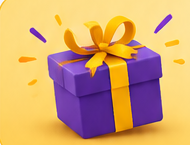
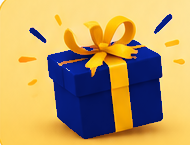
fix: replace purple tones with navy in dashboard images and gradient

diff --git a/src/App.tsx b/src/App.tsx
@@ -28,7 +28,9 @@ import { ClientDashboard } from './pages/ClientDashboard';
 
 export function App() {
   const [currentPage, setCurrentPage] = useState<PageType>(() => {
-    return window.location.hash === '#admin' ? 'admin' : 'home';
+    if (window.location.hash === '#admin') return 'admin';
+    if (window.location.hash === '#dashboard') return 'dashboard';
+    return 'home';
   });
   const [isFareModalOpen, setIsFareModalOpen] = useState(false);
   const [currentBookingData, setCurrentBookingData] = useState<BookingData | null>(null);
@@ -53,11 +55,13 @@ export function App() {
     }, 60);
   };
 
-  // Listen to hash change for #admin route
+  // Listen to hash change for #admin and #dashboard routes
   useEffect(() => {
     const handleHash = () => {
       if (window.location.hash === '#admin') {
         setCurrentPage('admin');
+      } else if (window.location.hash === '#dashboard') {
+        setCurrentPage('dashboard');
       }
     };
     window.addEventListener('hashchange', handleHash);
@@ -82,7 +86,12 @@ export function App() {
   if (currentPage === 'dashboard') {
     return (
       <ClientDashboard
-        onExit={() => navigateTo('home')}
+        onExit={() => {
+          if (window.location.hash === '#dashboard') {
+            window.location.hash = '';
+          }
+          navigateTo('home');
+        }}
         onOpenAccount={() => setIsAccountModalOpen(true)}
         onNavigateToContact={() => navigateTo('contact')}
       />

diff --git a/src/pages/ClientDashboard.tsx b/src/pages/ClientDashboard.tsx
@@ -315,7 +315,7 @@ function MainDashboard({ user, onNavigate, onContact }: { user: AuthUser; onNavi
       {/* ── Profile Hero Banner ── */}
       <div
         className="relative rounded-[24px] overflow-hidden text-white min-h-[160px] flex items-center"
-        style={{ background: `linear-gradient(135deg, ${NAVY} 0%, ${NAVY2} 60%, #1a0a5e 100%)` }}
+        style={{ background: `linear-gradient(135deg, ${NAVY} 0%, ${NAVY2} 60%, #001a40 100%)` }}
       >
         {/* Decorative glow */}
         <div
